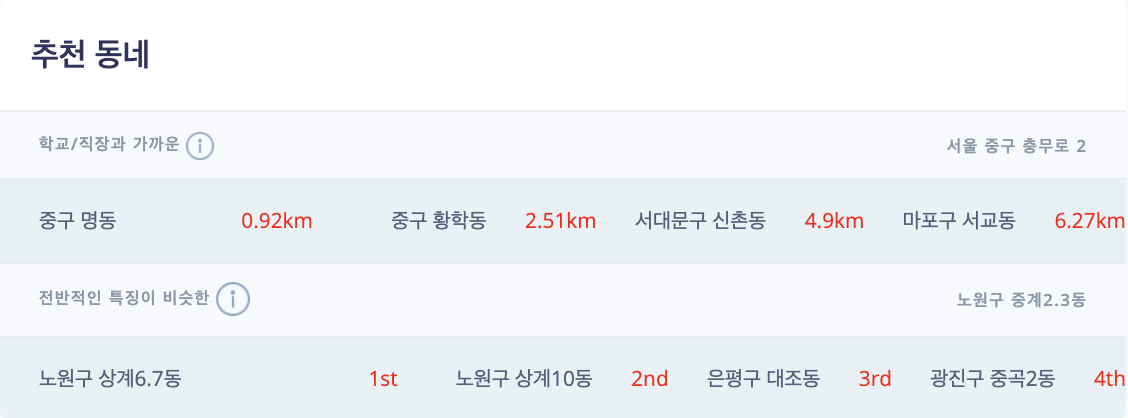
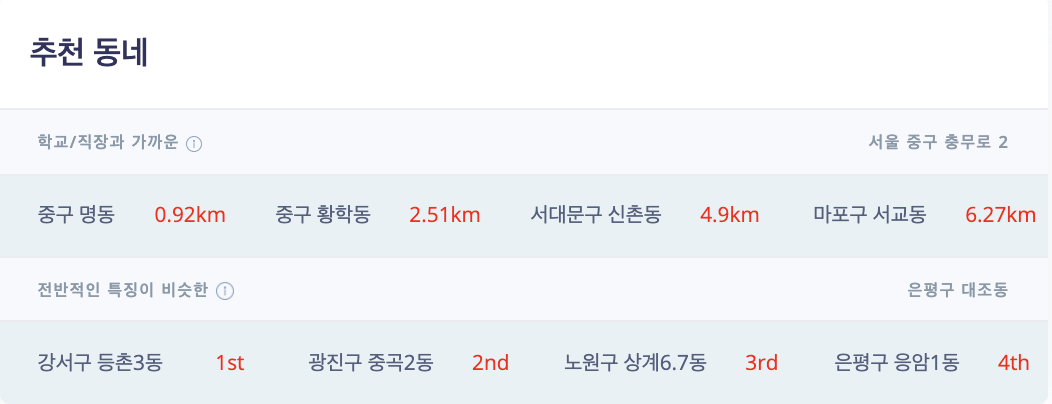
분석화면 추천 동네 테이블 너비 수정

diff --git a/findmyself/src/main/resources/templates/analysis.html b/findmyself/src/main/resources/templates/analysis.html
@@ -296,18 +296,20 @@
                                 </thead>
                                 <tbody>
                                 <tr>
-                                    <td id="disTop1"></td>
-                                    <td class="disKm" id="disTop1Km" style="padding-left:0; padding-right:0"></td>
-                                    <td id="disTop2"></td>
-                                    <td class="disKm" id="disTop2Km" style="padding-left:0; padding-right:0"></td>
-                                    <td id="disTop3"></td>
-                                    <td class="disKm" id="disTop3Km" style="padding-left:0; padding-right:0"></td>
-                                    <td id="disTop4"></td>
-                                    <td class="disKm" id="disTop4Km" style="padding-left:0; padding-right:0"></td>
+                                    <td width="15%" id="disTop1"></td>
+                                    <td width="10%" class="disKm" id="disTop1Km" style="padding-left:0; padding-right:0"></td>
+                                    <td width="15%" id="disTop2"></td>
+                                    <td width="10%" class="disKm" id="disTop2Km" style="padding-left:0; padding-right:0"></td>
+                                    <td width="15%" id="disTop3"></td>
+                                    <td width="10%" class="disKm" id="disTop3Km" style="padding-left:0; padding-right:0"></td>
+                                    <td width="15%" id="disTop4"></td>
+                                    <td width="10%" class="disKm" id="disTop4Km" style="padding-left:0; padding-right:0"></td>
                                 </tr>
                                 </tbody>
                             </table>
-                            <table class="table align-items-center table-flush">
+                        </div>
+                        <div class="table-responsive">
+                            <table class="table align-items-center table-flush" style="padding-right: 10px">
                                 <thead class="thead-light">
                                 <tr>
                                     <th scope="col" colspan="2">전반적인 특징이 비슷한
@@ -322,14 +324,14 @@
                                 </thead>
                                 <tbody>
                                 <tr>
-                                    <td id="similarTop1"></td>
-                                    <td class="disKm" id="similarTop1per"style="padding-left:0; padding-right:0"></td>
-                                    <td id="similarTop2"></td>
-                                    <td class="disKm" id="similarTop2per"style="padding-left:0; padding-right:0"></td>
-                                    <td id="similarTop3"></td>
-                                    <td class="disKm" id="similarTop3per"style="padding-left:0; padding-right:0"></td>
-                                    <td id="similarTop4"></td>
-                                    <td class="disKm" id="similarTop4per"style="padding-left:0; padding-right:0"></td>
+                                    <td width="15%" id="similarTop1"></td>
+                                    <td width="10%" class="disKm" id="similarTop1per"style="padding-left:0; padding-right:0"></td>
+                                    <td width="15%" id="similarTop2"></td>
+                                    <td width="10%" class="disKm" id="similarTop2per"style="padding-left:0; padding-right:0"></td>
+                                    <td width="15%" id="similarTop3"></td>
+                                    <td width="10%" class="disKm" id="similarTop3per"style="padding-left:0; padding-right:0"></td>
+                                    <td width="15%" id="similarTop4"></td>
+                                    <td width="10%" class="disKm" id="similarTop4per"style="padding-left:0; padding-right:0"></td>
                                 </tr>
                                 </tbody>
                                 <div id="similar-chart" class="card-body" style="width: 100%; padding: 0px"></div>

diff --git a/findmyself/src/main/resources/templates/main.html b/findmyself/src/main/resources/templates/main.html
@@ -215,7 +215,7 @@
             </div>
         </div>
 <!--        사용자 설정 부분-->
-        <div class="choice_wrap">
+        <div class="choice_wrap" style="margin-bottom: 50px;">
             <form name="choice_form" action="/find.do" th:object="${rq}" method="post" onsubmit="return check();">
                 <div class="requirements" id="budget1">
                     <p>예산</p>
